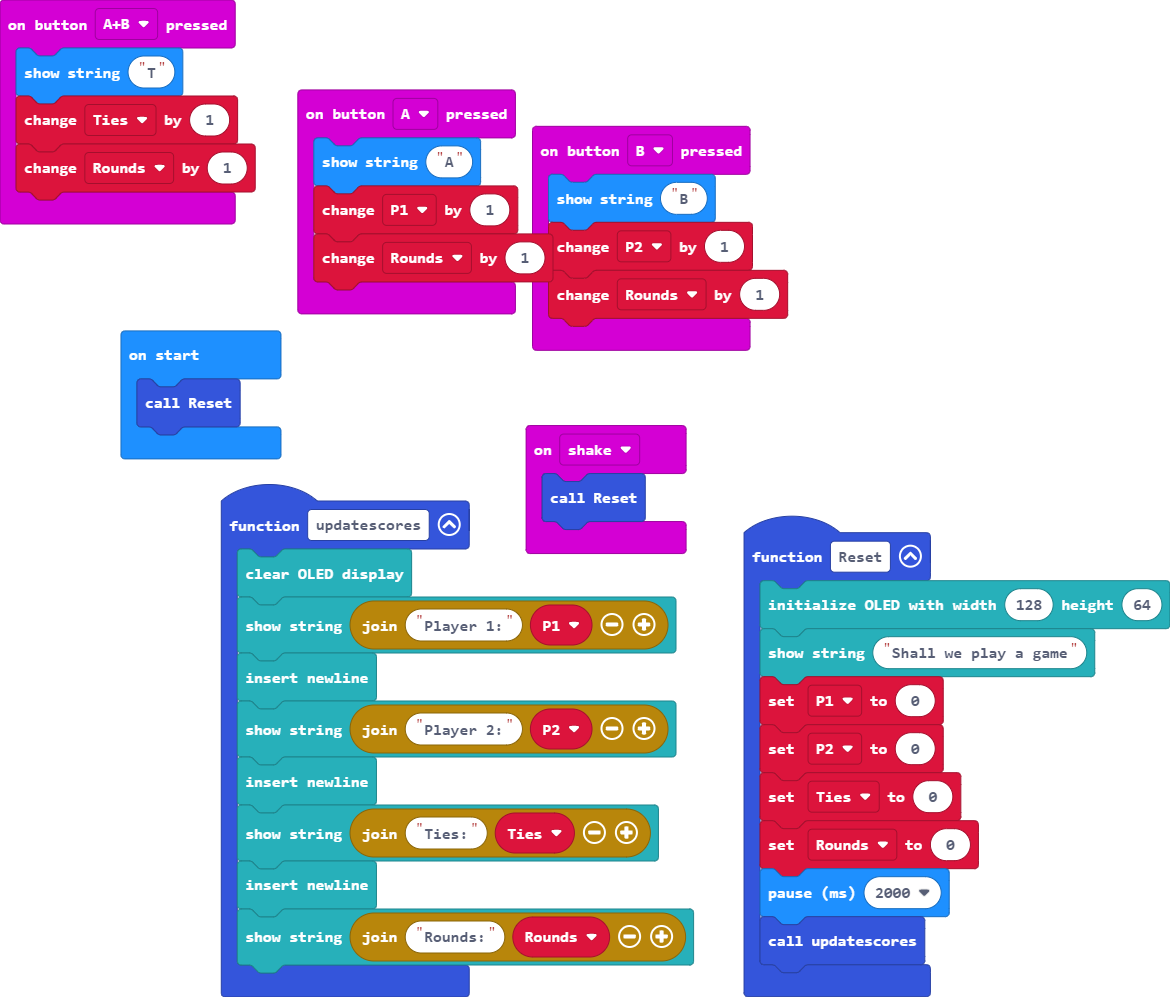
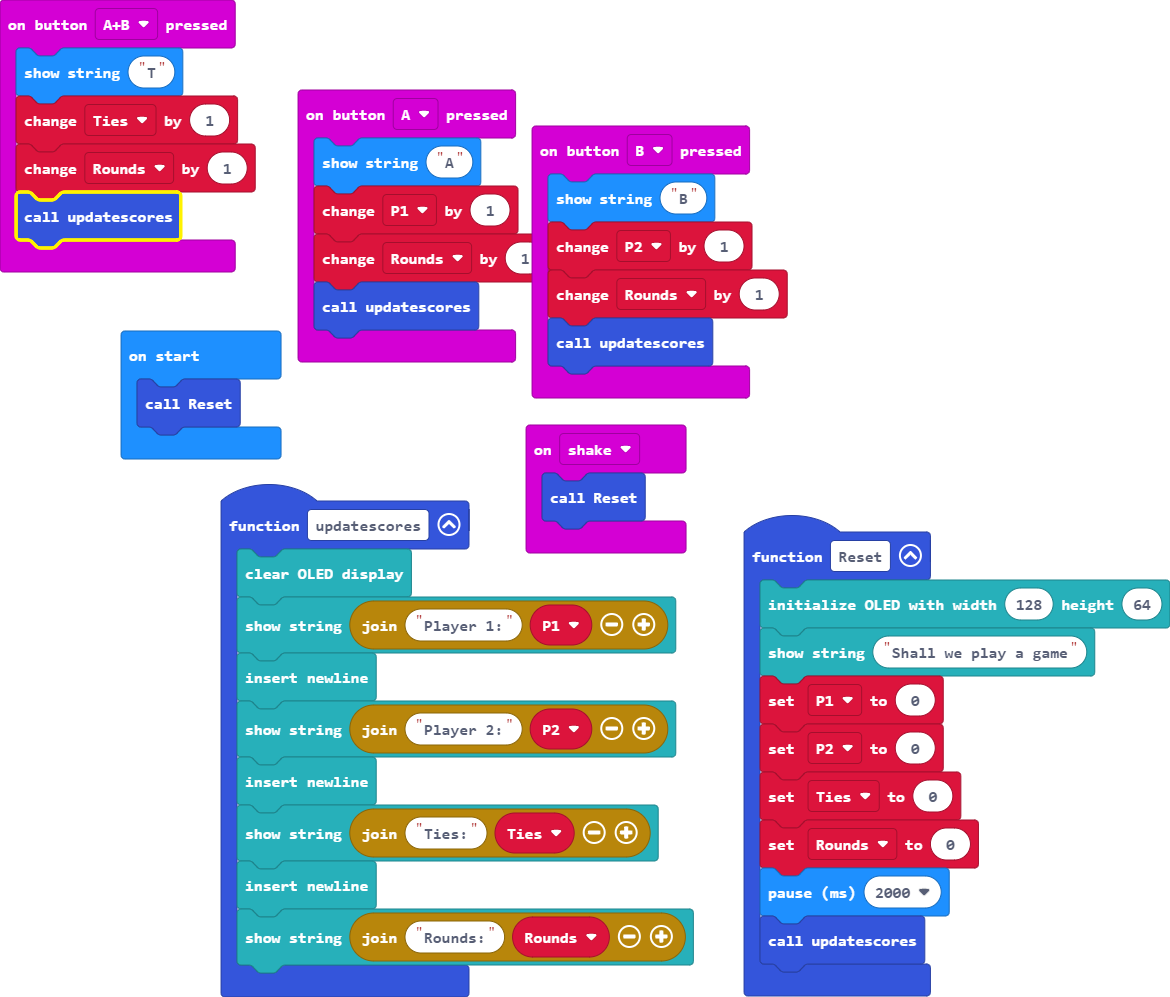
Update main.blocks, main.ts

diff --git a/main.ts b/main.ts
@@ -2,11 +2,13 @@ input.onButtonPressed(Button.A, function () {
     basic.showString("A")
     P1 += 1
     Rounds += 1
+    updatescores()
 })
 input.onButtonPressed(Button.AB, function () {
     basic.showString("T")
     Ties += 1
     Rounds += 1
+    updatescores()
 })
 function updatescores () {
     OLED.clear()
@@ -22,6 +24,7 @@ input.onButtonPressed(Button.B, function () {
     basic.showString("B")
     P2 += 1
     Rounds += 1
+    updatescores()
 })
 input.onGesture(Gesture.Shake, function () {
     Reset()
